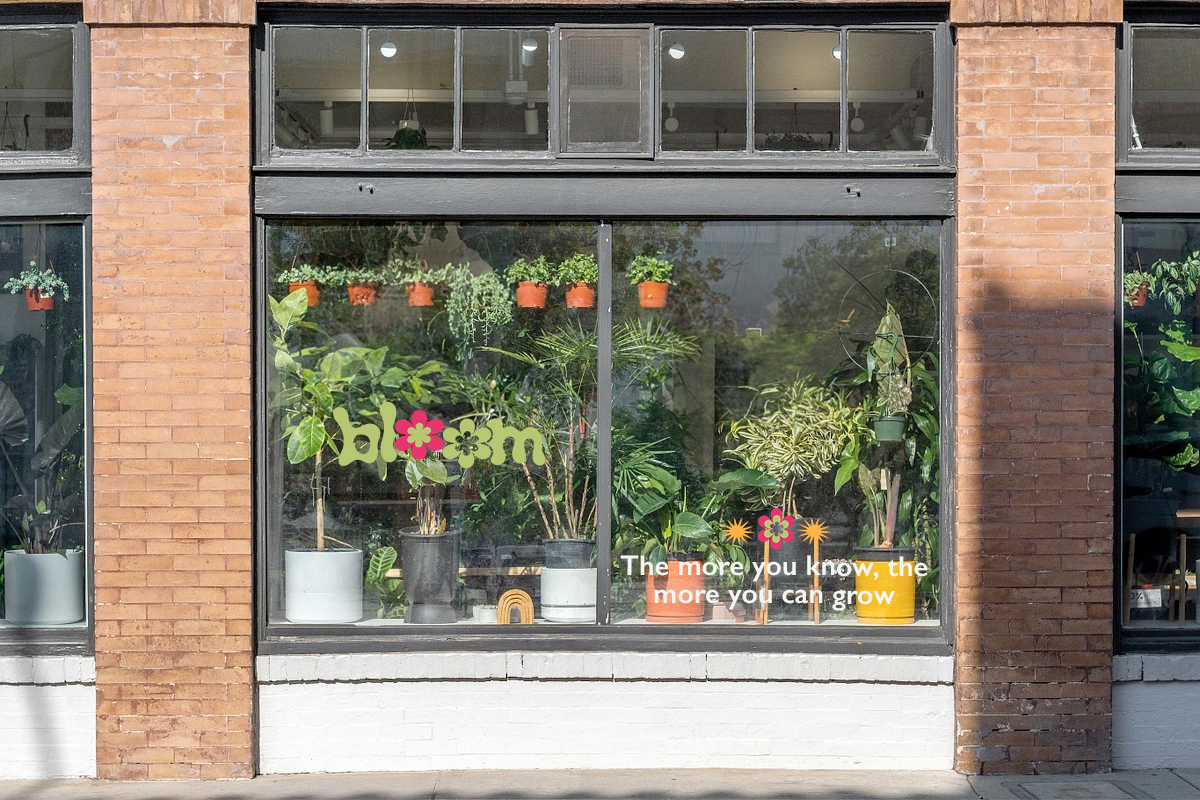
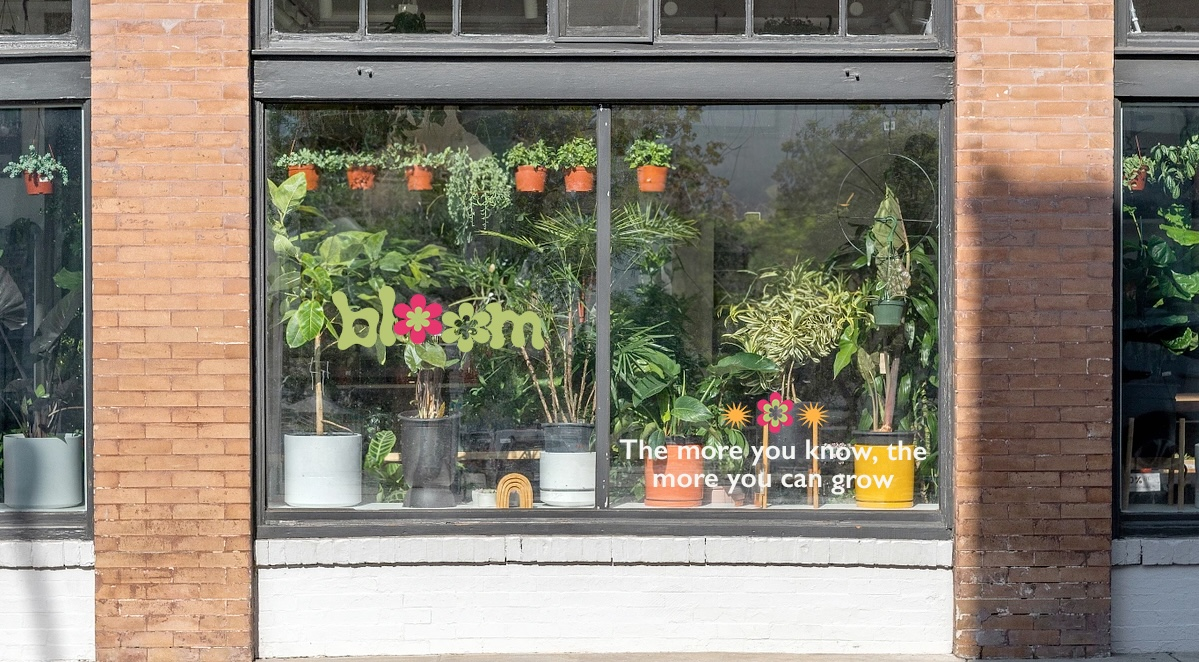
Hero image adjustments completed, made additional changes to color change

diff --git a/styles.css b/styles.css
@@ -50,6 +50,7 @@ table {
 
 /*root variables*/
 :root {
+    --super-dg: rgb(54, 72, 50);
     --light-green: #AABC5C;
     --dark-green: #565F29;
     --white: #F2F3EE;
@@ -83,7 +84,7 @@ table {
       body{
         font-family: var(--main-text);
         padding-top: 2.5rem;
-      color: var(--dark-green);
+      background: var(--white);
       }
 
       body.dark-mode{
@@ -92,17 +93,9 @@ table {
       }
 
 body.dark-mode header {
-  background: var(--light-pink);
-  color: black;
+  background: var(--super-dg);
 }
 
-body.dark-mode ul li a {
-  color: black;
-}
-
-body.dark-mode header nav ul li a img {
-  filter: invert(0);
-}
 
       #color-mode{
         margin-right: 3rem;
@@ -195,6 +188,12 @@ body.dark-mode header nav ul li a img {
     header nav ul li a img {
       filter: invert(1);
       margin-top: -.3rem;
+    }
+
+    #storefront {
+      width: 1375px;
+      height: 950px;
+      margin: 0 2rem;
     }
 
 

diff --git a/index.html b/index.html
@@ -35,11 +35,11 @@
             </ul>
         </nav>
 
-        <button id="color-mode"><img src="images/light-dark.png" alt="light/dark mode button icon" width="50" height="auto"></button>
+        <button id="color-mode"><img src="images/light-dark.png" alt="light/dark mode button icon" width="50"></button>
     </div>
     </header>
     <main>
-        <img src="images/bloom-storefront.jpg" alt="bloom storefront image">
+        <img src="images/bloom-shopping-bag.jpg" alt="bloom storefront image" id="storefront">
 
         <section id="shop">
             <h2>Shop</h2>
